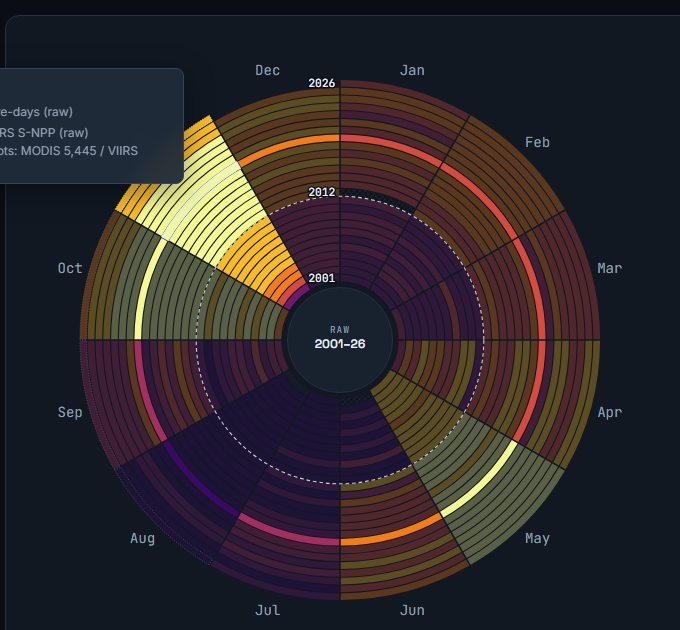
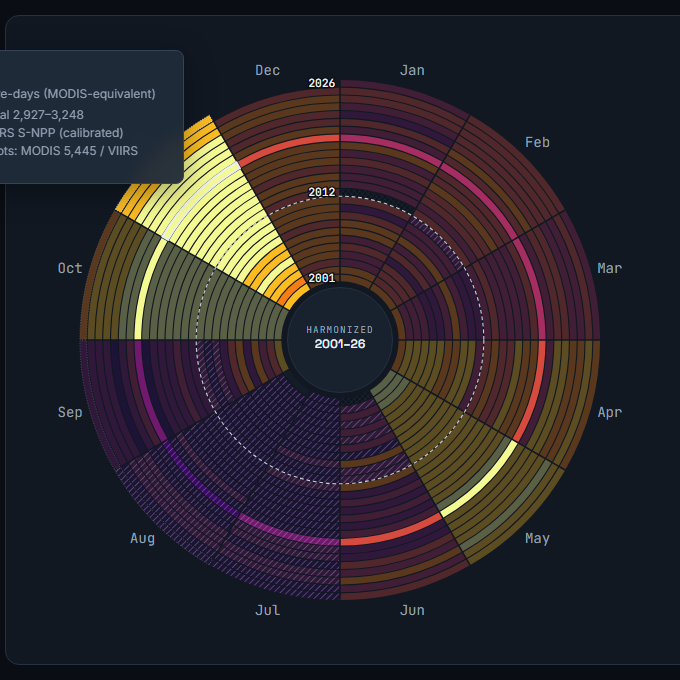
Full export + run_all: harmonized region JSON, hexes, hotspots, open dataset (Phase 3)
Region JSON now carries H with bootstrap CI, per-month normal-ness stats,
chosen method, ratios and validation summary. Adds per-year H3 cell files,
latest-month hotspot CSVs, harmonized dataset CSV/Parquet, calibration
CSV, validation JSON, and pipeline/run_all.py (raw -> web in 47 s).

diff --git a/pipeline/08_export.py b/pipeline/08_export.py
@@ -1,7 +1,14 @@
 """08 — Export web data (contract: master plan §6.3) to web/public/data/v1/.
 
-Raw fields always come from the cube. Harmonized fields (H, lo, hi, k, validation, stats) are filled from the outputs of
-05_calibrate / 06_validate / 07_stats when present, and are null otherwise (never invented).
+regions/{id}.json          region record: months (raw + harmonized + per-month stats), k, validation, climatology,
+                           latest, annual, similar years
+daily/{id}.json            daily fire cell-days per month (MODIS + primary VIIRS stream)
+hexes/{id}/cells.json      H3 r6 cell ids;  hexes/{id}/{year}.json  per-month [cellIndex, cell-days] pairs of the
+                           primary stream (MODIS < 2012, S-NPP 2012 – Oct 2026, NOAA-20 after) for map / box filtering
+hotspots/{id}_{YYYY-MM}.csv  detection-level CSV for the latest months (downloads)
+dataset/harmonized_monthly_regions_v1.csv|.parquet · calibration_k_v1.csv · validation_v1.json
+meta.json
+Harmonized fields are null unless 05–07 outputs exist (never invented).
 Usage: python pipeline/08_export.py
 """
 from __future__ import annotations
@@ -11,12 +18,16 @@ import math
 import sys
 from pathlib import Path
 
+import numpy as np
 import polars as pl
 
 sys.path.insert(0, str(Path(__file__).resolve().parent))
-from lib.common import config, path, read_json, write_json  # noqa: E402
+from lib.common import config, connect, path, read_json, sql_path, write_json  # noqa: E402
 
 PROVISIONAL_AFTER = {"MODIS": dt.date(2026, 8, 31), "VIIRS": dt.date(2026, 7, 31)}  # archive ends → NRT after
+CITATION = ("Fire Rings Harmonized Hotspot Record v1.0 (2026). NASA Space Apps 2026, Port Louis. "
+            "Derived from NASA FIRMS MODIS C6.1 and VIIRS 375 m active fire data. Licence CC BY 4.0.")
+HOTSPOT_MONTHS = 2
 
 
 def segment(y: int, m: int) -> str:
@@ -31,6 +42,10 @@ def viirs_stream(y: int, m: int) -> str:
     return "N20" if segment(y, m) == "V2" else "SNPP"
 
 
+def primary_stream(y: int, m: int) -> str:
+    return {"T": "TERRA", "M": "MODIS", "V": "SNPP", "V2": "N20"}[segment(y, m)]
+
+
 def bbox_area_km2(b: list[float]) -> float:
     w, s, e, n = b
     r = 6371.0088
@@ -38,20 +53,25 @@ def bbox_area_km2(b: list[float]) -> float:
 
 
 def r1(x):
-    return None if x is None else round(float(x), 1)
+    return None if x is None or (isinstance(x, float) and np.isnan(x)) else round(float(x), 1)
+
+
+def opt_json(p: Path):
+    return read_json(p) if p.exists() else None
 
 
 def export_region(region: str, rc: dict, data_end: dt.date, web: Path) -> dict:
-    cube = path("cube")
+    cube, out = path("cube"), path("out")
     mon = pl.read_parquet(cube / f"{region}_monthly.parquet")
     get = {(r["y"], r["m"], r["stream"]): r for r in mon.iter_rows(named=True)}
-    harm = {}
-    hp = path("out") / f"harmonized_{region}.parquet"
-    if hp.exists():
-        harm = {(r["y"], r["m"]): r for r in pl.read_parquet(hp).iter_rows(named=True)}
-    stats = read_json(path("out") / f"stats_{region}.json") if (path("out") / f"stats_{region}.json").exists() else {}
-    calib = read_json(path("out") / f"calib_{region}.json") if (path("out") / f"calib_{region}.json").exists() else {}
-    valid = read_json(path("out") / f"validation_{region}.json") if (path("out") / f"validation_{region}.json").exists() else {}
+    hp = out / f"harmonized_{region}.parquet"
+    harm = {(r["y"], r["m"]): r for r in pl.read_parquet(hp).iter_rows(named=True)} if hp.exists() else {}
+    stats = opt_json(out / f"stats_{region}.json") or {}
+    valid = opt_json(out / f"validation_{region}.json") or {}
+    calib = opt_json(out / f"calib_{region}.json") or {}
+    method = (valid.get("summary") or {}).get("method")
+    cm = calib.get("methods", {}).get(method, {}) if method else {}
+    pm = {(p["y"], p["m"]): p for p in stats.get("per_month", [])}
 
     start_y = int(config()["record"]["start"][:4])
     months = []
@@ -65,15 +85,18 @@ def export_region(region: str, rc: dict, data_end: dt.date, web: Path) -> dict:
             if md["D"] < (dt.date(y + (m == 12), m % 12 + 1, 1) - first).days:
                 flags.append("mtd")
             last_day = first.replace(day=md["D"]) if md["D"] else first
-            if last_day > PROVISIONAL_AFTER["VIIRS"] and y >= 2012 or last_day > PROVISIONAL_AFTER["MODIS"]:
+            if (last_day > PROVISIONAL_AFTER["VIIRS"] and y >= 2012) or last_day > PROVISIONAL_AFTER["MODIS"]:
                 flags.append("provisional")
             seg = segment(y, m)
             primary = md if seg in ("T", "M") else vs
+            if seg == "T":
+                primary = get[(y, m, "TERRA")]
             if primary["flag"] == "insufficient":
                 flags.append("insufficient")
             h = harm.get((y, m), {})
             if h.get("uncertain"):
                 flags.append("uncertain")
+            s = pm.get((y, m), {})
             months.append({
                 "y": y, "m": m,
                 "H": r1(h.get("H")), "lo": r1(h.get("lo")), "hi": r1(h.get("hi")),
@@ -81,7 +104,15 @@ def export_region(region: str, rc: dict, data_end: dt.date, web: Path) -> dict:
                 "hot_modis": int(md["hot"]), "hot_viirs": int(vs["hot"]) if y >= 2012 else None,
                 "cov_modis": md["cov"], "cov_viirs": vs["cov"] if y >= 2012 else None,
                 "src": seg, "flags": flags,
+                "ratio": s.get("ratio"), "pct": s.get("pct"), "rp": s.get("return_period"),
+                "beyond": s.get("beyond_record") or None, "rank": s.get("rank"), "guard": s.get("guard"),
             })
+
+    # the partial (month-to-date) month is judged against the same days of baseline years, as in `latest`
+    lt = stats.get("latest") or {}
+    if lt.get("mtd") and months and (months[-1]["y"], months[-1]["m"]) == (lt.get("y"), lt.get("m")):
+        months[-1].update({"ratio": lt.get("ratio"), "pct": lt.get("pct"), "rp": lt.get("return_period"),
+                           "beyond": lt.get("beyond_record") or None, "rank": lt.get("rank"), "guard": lt.get("guard")})
 
     bbox = rc.get("bbox")
     if bbox is None:
@@ -92,26 +123,53 @@ def export_region(region: str, rc: dict, data_end: dt.date, web: Path) -> dict:
     else:
         area, area_note = bbox_area_km2(bbox), "clip box area"
 
-    # daily series for the latest month in the contract; full daily history in a sidecar file
+    # ---- daily sidecar -------------------------------------------------------------------------------------
     daily_all = pl.read_parquet(cube / f"{region}_daily.parquet")
-    side: dict[str, dict[str, list[int]]] = {}
-    for y, m in sorted({(d.year, d.month) for d in daily_all["date"].to_list()}):
-        if dt.date(y, m, 1) < dt.date(start_y, 1, 1):
-            continue
-        key = f"{y:04d}-{m:02d}"
+    by_day = {(r["date"], r["stream"]): int(r["cells"]) for r in daily_all.iter_rows(named=True)}
+    side: dict = {}
+    for rec in months:
+        y, m = rec["y"], rec["m"]
         nd = (dt.date(y + (m == 12), m % 12 + 1, 1) - dt.timedelta(1)).day
-        sub = daily_all.filter((pl.col("date").dt.year() == y) & (pl.col("date").dt.month() == m))
-        series = {}
-        for label, stream in (("modis", "MODIS"), ("viirs", viirs_stream(y, m))):
-            if label == "viirs" and y < 2012:
-                continue
-            arr = [0] * nd
-            for r in sub.filter(pl.col("stream") == stream).iter_rows(named=True):
-                arr[r["date"].day - 1] = int(r["cells"])
-            series[label] = arr
-        side[key] = series
+        series = {"modis": [by_day.get((dt.date(y, m, d), "MODIS"), 0) for d in range(1, nd + 1)]}
+        if y >= 2012:
+            series["viirs"] = [by_day.get((dt.date(y, m, d), viirs_stream(y, m)), 0) for d in range(1, nd + 1)]
+        side[f"{y:04d}-{m:02d}"] = series
     latest_key = f"{months[-1]['y']:04d}-{months[-1]['m']:02d}"
     write_json(web / "daily" / f"{region}.json", side, compact=True)
+
+    # ---- hexes (cell-month, primary stream) -------------------------------------------------------------------
+    cmo = pl.read_parquet(cube / f"{region}_cellmonth.parquet")
+    keep = pl.DataFrame([{"y": r["y"], "m": r["m"], "stream": primary_stream(r["y"], r["m"])} for r in months])
+    cmo = cmo.join(keep, on=["y", "m", "stream"], how="inner")
+    con = connect()
+    cells = sorted(cmo["h3r6"].unique().to_list())
+    cid = {c: i for i, c in enumerate(cells)}
+    strs = [s for (s,) in con.execute("SELECT h3_h3_to_string(c) FROM (SELECT unnest(?::UBIGINT[]) c)", [cells]).fetchall()]
+    write_json(web / "hexes" / region / "cells.json", strs, compact=True)
+    for y, part in cmo.group_by("y"):
+        y = y[0]
+        mm = [[] for _ in range(12)]
+        for r in part.iter_rows(named=True):
+            mm[r["m"] - 1] += [cid[r["h3r6"]], int(r["n_days"])]
+        write_json(web / "hexes" / region / f"{y}.json", {"y": y, "m": mm}, compact=True)
+
+    # ---- hotspot CSVs for the latest months ----------------------------------------------------------------
+    clean_p = sql_path(path("clean") / f"{region}_filtered.parquet")
+    for rec in months[-HOTSPOT_MONTHS:]:
+        y, m = rec["y"], rec["m"]
+        dest = web / "hotspots" / f"{region}_{y:04d}-{m:02d}.csv"
+        dest.parent.mkdir(parents=True, exist_ok=True)
+        rows = con.execute(f"""
+            SELECT round(lat,5), round(lon,5), strftime(t_utc, '%Y-%m-%dT%H:%MZ'), solar_date, stream, conf, frp,
+                   daynight, product FROM '{clean_p}'
+            WHERE year(solar_date)={y} AND month(solar_date)={m} ORDER BY t_utc""").fetchall()
+        with dest.open("w", encoding="utf-8", newline="") as fh:
+            fh.write(f"# Fire Rings v1 · {rc['name']} · {y}-{m:02d} · filtered hotspot detections (conf N/H, static sources "
+                     f"masked) · {'provisional NRT' if 'provisional' in rec['flags'] else 'standard'} · {CITATION}\n")
+            fh.write("lat,lon,t_utc,solar_date,stream,conf,frp_mw,daynight,product\n")
+            for r in rows:
+                fh.write(",".join("" if v is None else str(v) for v in r) + "\n")
+    con.close()
 
     doc = {
         "id": region, "name": rc["name"], "area_km2": area, "area_note": area_note, "bbox": bbox,
@@ -120,20 +178,72 @@ def export_region(region: str, rc: dict, data_end: dt.date, web: Path) -> dict:
         "data_end": str(data_end),
         "units": {"H": "fire cell-days (MODIS-equivalent)", "raw": "fire cell-days (H3 r6 cell × solar day)",
                   "hot": "hotspot detections"},
-        "method": calib.get("method"),
+        "method": method,
+        "method_reason": (valid.get("summary") or {}).get("method_reason"),
         "months": months,
-        "k": calib.get("k", {"month": [], "lo": [], "hi": [], "B": []}),
+        "k": {k: cm["k"][k] for k in ("month", "lo", "hi", "B", "A", "raw_month", "pool", "tau")} if cm else
+             {"month": [], "lo": [], "hi": [], "B": []},
+        "q": {k: cm["q"][k] for k in ("month", "lo", "hi", "pool")} if cm else None,
+        "kprime": {k: cm["kprime"][k] for k in ("month", "lo", "hi", "pool")} if cm else None,
         "validation": valid.get("summary"),
         "climatology": stats.get("climatology"),
         "latest": stats.get("latest"),
+        "latest_complete": stats.get("latest_complete"),
         "annual": stats.get("annual", []),
         "similar_years": stats.get("similar_years", []),
+        "similar_detail": stats.get("similar_detail"),
         "daily": {latest_key: side.get(latest_key, {})},
+        "hotspot_months": [f"{r['y']:04d}-{r['m']:02d}" for r in months[-HOTSPOT_MONTHS:]],
+        "hex_years": sorted({r["y"] for r in months}),
         "harmonized": bool(harm),
     }
     write_json(web / "regions" / f"{region}.json", doc, compact=True)
-    return {"id": region, "name": rc["name"], "bbox": bbox, "months": len(months),
-            "harmonized": bool(harm), "first": f"{months[0]['y']}-{months[0]['m']:02d}", "last": latest_key}
+    return {"id": region, "name": rc["name"], "bbox": bbox, "months": len(months), "method": method,
+            "harmonized": bool(harm), "first": f"{months[0]['y']}-{months[0]['m']:02d}", "last": latest_key,
+            "latest": stats.get("latest"), "latest_complete": stats.get("latest_complete"), "doc": doc}
+
+
+def write_dataset(regs: list[dict], web: Path) -> None:
+    ds = web / "dataset"
+    ds.mkdir(parents=True, exist_ok=True)
+    rows = []
+    for r in regs:
+        d = r["doc"]
+        for mrec in d["months"]:
+            rows.append({"region": d["id"], "year": mrec["y"], "month": mrec["m"], "H": mrec["H"], "H_lo": mrec["lo"],
+                         "H_hi": mrec["hi"], "raw_modis_celldays": mrec["raw_modis"], "raw_viirs_celldays": mrec["raw_viirs"],
+                         "hotspots_modis": mrec["hot_modis"], "hotspots_viirs": mrec["hot_viirs"],
+                         "coverage_modis": mrec["cov_modis"], "coverage_viirs": mrec["cov_viirs"], "source": mrec["src"],
+                         "flags": "|".join(mrec["flags"]), "ratio_to_median": mrec["ratio"],
+                         "pct_lo": mrec["pct"][0] if mrec["pct"] else None, "pct_hi": mrec["pct"][1] if mrec["pct"] else None,
+                         "method": d["method"], "calib_version": d["calib_version"]})
+    df = pl.DataFrame(rows, infer_schema_length=None)
+    df.write_parquet(ds / "harmonized_monthly_regions_v1.parquet")
+    csv = ds / "harmonized_monthly_regions_v1.csv"
+    with csv.open("w", encoding="utf-8", newline="") as fh:
+        fh.write(f"# {CITATION} Units: H = fire cell-days (MODIS-equivalent; H3 res-6 cell x solar day). "
+                 f"Regions: {', '.join(r['id'] for r in regs)}. Data through {regs[0]['doc']['data_end']}. "
+                 "Dictionary: /data page.\n")
+        fh.write(df.write_csv())
+    krows = []
+    for r in regs:
+        d = r["doc"]
+        for name in ("k", "q", "kprime"):
+            blk = d.get(name)
+            if not blk or not blk.get("month"):
+                continue
+            for i in range(12):
+                krows.append({"region": d["id"], "ratio": name, "month": i + 1, "value": blk["month"][i],
+                              "lo": blk["lo"][i], "hi": blk["hi"][i], "pool": blk["pool"],
+                              "overlap_B": blk.get("B", [None] * 12)[i] if name == "k" else None,
+                              "overlap_A": blk.get("A", [None] * 12)[i] if name == "k" else None,
+                              "tau": blk.get("tau") if name == "k" else None, "method": d["method"]})
+    with (ds / "calibration_k_v1.csv").open("w", encoding="utf-8", newline="") as fh:
+        fh.write(f"# {CITATION} k = MODIS/S-NPP (Jul 2012-Dec 2019), q = MODIS/Terra (Jul 2002-Dec 2019), "
+                 "kprime = S-NPP/NOAA-20 (Apr 2018-Jul 2026). lo/hi = bootstrap 5th/95th percentiles.\n")
+        fh.write(pl.DataFrame(krows).write_csv())
+    val = {r["id"]: opt_json(path("out") / f"validation_{r['id']}.json") for r in regs}
+    write_json(ds / "validation_v1.json", {"version": "v1", "regions": val})
 
 
 def main() -> None:
@@ -141,11 +251,13 @@ def main() -> None:
     web = path("web")
     data_end = dt.date.fromisoformat(cfg["record"]["data_end"])
     regs = [export_region(r, rc, data_end, web) for r, rc in cfg["regions"].items()]
-    write_json(web / "meta.json", {"version": cfg["version"], "data_end": str(data_end),
-                                   "generated": dt.datetime.now(dt.timezone.utc).strftime("%Y-%m-%dT%H:%MZ"),
-                                   "regions": regs})
+    write_dataset(regs, web)
+    write_json(web / "meta.json", {
+        "version": cfg["version"], "data_end": str(data_end), "citation": CITATION,
+        "generated": dt.datetime.now(dt.timezone.utc).strftime("%Y-%m-%dT%H:%MZ"),
+        "regions": [{k: v for k, v in r.items() if k != "doc"} for r in regs]})
     for r in regs:
-        print(r)
+        print(r["id"], r["method"], r["months"], r["last"], "harmonized" if r["harmonized"] else "RAW ONLY")
 
 
 if __name__ == "__main__":

diff --git a/pipeline/run_all.py b/pipeline/run_all.py
@@ -1,0 +1,50 @@
+"""Run the whole Fire Rings pipeline from raw CSVs to web/public/data/v1/.
+
+Usage: python pipeline/run_all.py [--from STEP] [--skip-tests]
+Steps: 02_unify 03_mask report 04_cube 05_calibrate 06_validate 07_stats 08_export
+"""
+from __future__ import annotations
+
+import argparse
+import subprocess
+import sys
+import time
+from pathlib import Path
+
+PIPE = Path(__file__).resolve().parent
+STEPS = [
+    ("02_unify", [PIPE / "02_unify.py"]),
+    ("03_mask", [PIPE / "03_mask.py"]),
+    ("report", [PIPE / "tools" / "pipeline_report.py"]),
+    ("04_cube", [PIPE / "04_cube.py"]),
+    ("05_calibrate", [PIPE / "05_calibrate.py"]),
+    ("06_validate", [PIPE / "06_validate.py"]),
+    ("07_stats", [PIPE / "07_stats.py"]),
+    ("08_export", [PIPE / "08_export.py"]),
+]
+
+
+def main() -> None:
+    ap = argparse.ArgumentParser()
+    ap.add_argument("--from", dest="start", default=STEPS[0][0], choices=[s for s, _ in STEPS])
+    ap.add_argument("--skip-tests", action="store_true")
+    a = ap.parse_args()
+    names = [s for s, _ in STEPS]
+    t_all = time.time()
+    for name, cmd in STEPS[names.index(a.start):]:
+        t0 = time.time()
+        print(f"\n=== {name} ===", flush=True)
+        r = subprocess.run([sys.executable, *map(str, cmd)], cwd=PIPE.parent)
+        if r.returncode != 0:
+            sys.exit(f"step {name} failed with exit code {r.returncode}")
+        print(f"--- {name} done in {time.time() - t0:.0f}s", flush=True)
+    if not a.skip_tests:
+        print("\n=== pytest ===", flush=True)
+        r = subprocess.run([sys.executable, "-m", "pytest", "pipeline/tests", "-q"], cwd=PIPE.parent)
+        if r.returncode != 0:
+            sys.exit("tests failed")
+    print(f"\nPipeline complete in {time.time() - t_all:.0f}s")
+
+
+if __name__ == "__main__":
+    main()

diff --git a/PROGRESS.md b/PROGRESS.md
@@ -35,9 +35,9 @@ Live: https://fire-rings.vercel.app (Vercel, root = web, auto-deploys on push to
 |---|---|---|
 | 3.1 05_calibrate.py | done | k/q/k′ per region × month, τ by LOYO Poisson deviance (Punjab 10, Madagascar 300, SE Aus 300, Mauritius 30), bootstrap ×500 + Poisson. Pooled k: Punjab 0.347, Madagascar 0.262, SE Aus 0.410, Mauritius 0.212. k′ (S-NPP/N20) ≈ 0.96–0.97 (Mauritius 0.85). Window end asserted ≤ Dec 2019. 8 calib tests |
 | 3.2 06_validate.py | done | docs/validation_report.md + data/out/validation_{region}.json. All active regions pass V1 (MAPE 2.8–9.2 %) and V3 (raw step +168…+294 % → harmonized +3…+9 %, matching MODIS-only). Black Summer = #1 harmonized. SE Australia uses fallback 1 (pooled) — see Decisions |
-| 3.3 07_stats.py | todo | |
-| 3.4 full 08_export.py + run_all.py | todo | |
-| 3.5 validation decision (no stop) | todo | |
+| 3.3 07_stats.py | done | Baseline 2003–2022 climatology (median/p10/p90), per-month ratio, Weibull percentile range over bootstrap, return period (no extrapolation, `beyond_record`), rank, guard, MTD vs same days, similar years (Pearson YTD), annual totals + CI. Punjab Oct 2026 = 0.08× median, lowest October on record; confirmed by all 3 VIIRS satellites (real decline: S-NPP Oct cell-days 16,155 in 2016 → 1,096 in 2026) |
+| 3.4 full 08_export.py + run_all.py | done | regions/*.json (harmonized + per-month stats), daily/, hexes/{region}/{year}.json (H3 r6 cell-days, primary stream), hotspots/{region}_{YYYY-MM}.csv (latest 2 months, header comment), dataset/ (CSV + Parquet + calibration_k_v1.csv + validation_v1.json), meta.json. `python pipeline/run_all.py` reruns raw → web in 47 s, then pytest (26 pass) |
+| 3.5 validation decision (no stop) | done | See validation table in Summary. Active regions pass V1 + V3; SE Australia on fallback 1 (pooled); Mauritius low-activity (reported, not judged) |
 
 ## Phase 4 — Region dashboard · Phase 5 — Proof + Data · Phase 6 — Ask AI · Phase 7 — Wow + polish (v0.9) · Phase 8 — Ship (v1.0)
 todo
@@ -53,6 +53,10 @@ todo
 7. **V3 is tested out of sample.** In-sample, H for 2012–2019 equals k·S-NPP, which matches MODIS by construction, so the step test would be circular. V3 therefore uses leave-one-year-out ratios for 2012–2019. It passes if (a) Pettitt p > 0.05 on the harmonized 2003–2019 annual series and (b) the MODIS-only step lies inside the harmonized step's 90% bootstrap interval. That makes MODIS-only the "true change" reference.
 8. **SE Australia uses fallback 1 (a single region-wide ratio).** The monthly method passes V1 (MAPE 8.5%) but narrowly fails V3: the MODIS-only step of +10.2% sits just outside the harmonized interval (−0.9 to +10.0). The pooled method passes both (MAPE 9.2%, step +9.2% with CI 1.6–18.5). I applied the default rule (use whichever validates better). The method is recorded in the JSON and will be shown on the Proof page. *Alternative:* keep monthly for SE Australia; it's arguably better on seasonal shape.
 9. **Low-activity rule for regions.** A region counts as low-activity when its median baseline month (2003–2022) is under 5 MODIS cell-days, the same threshold as the month guard. Only Mauritius qualifies (V1 MAPE 24%). Its targets are reported but not judged.
+
+10. **Limitation: seasons before July 2002 rest on Terra alone (×q).** In V9, 2001–02 ranks #1 harmonized in Madagascar and Mauritius. Terra alone did record its biggest early season then (Madagascar Terra 15,810 cell-days vs 10–14k in the following seasons), and q (≈3.4) scales it up. It could still be partly an early-Terra sensitivity effect. The bootstrap interval includes the uncertainty in q. I'll state this on the Proof page as a limitation rather than change the method.
+11. **The partial month (Nov 2026)** is judged against the same days 1–8 of baseline years, both in `latest` and in that month's entry in `months[]`.
+12. **Hotspot CSVs** are exported only for the latest 2 months (about 12.6 MB). Older months use H3 cell aggregates (`hexes/`) for maps, which keeps the repo small.
 
 ## Blockers
 none

diff --git a/docs/mask_check.md b/docs/mask_check.md
@@ -51,8 +51,8 @@ refineries, volcanoes. Red flag: cropland or sugarcane (would mean we are maskin
 | known | 125 | -18.19804, 49.36052 | [satellite](https://www.google.com/maps/@?api=1&map_action=map&center=-18.19804,49.36052&zoom=17&basemap=satellite) |
 | known | 47 | -19.45404, 44.72602 | [satellite](https://www.google.com/maps/@?api=1&map_action=map&center=-19.45404,44.72602&zoom=17&basemap=satellite) |
 | known | 39 | -19.51216, 44.6963 | [satellite](https://www.google.com/maps/@?api=1&map_action=map&center=-19.51216,44.6963&zoom=17&basemap=satellite) |
-| known | 38 | -19.54582, 44.71027 | [satellite](https://www.google.com/maps/@?api=1&map_action=map&center=-19.54582,44.71027&zoom=17&basemap=satellite) |
-| known | 38 | -19.49126, 44.72142 | [satellite](https://www.google.com/maps/@?api=1&map_action=map&center=-19.49126,44.72142&zoom=17&basemap=satellite) |
+| known | 38 | -17.0132, 44.3344 | [satellite](https://www.google.com/maps/@?api=1&map_action=map&center=-17.0132,44.3344&zoom=17&basemap=satellite) |
+| known | 38 | -19.56581, 44.70884 | [satellite](https://www.google.com/maps/@?api=1&map_action=map&center=-19.56581,44.70884&zoom=17&basemap=satellite) |
 
 ### se_australia
 
